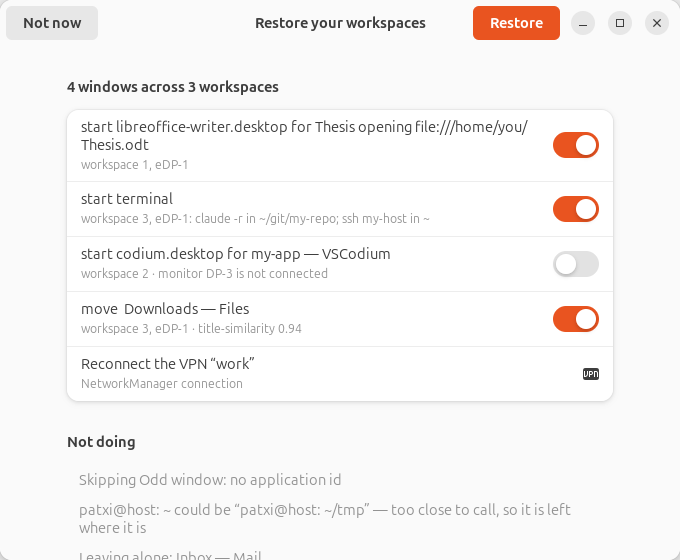
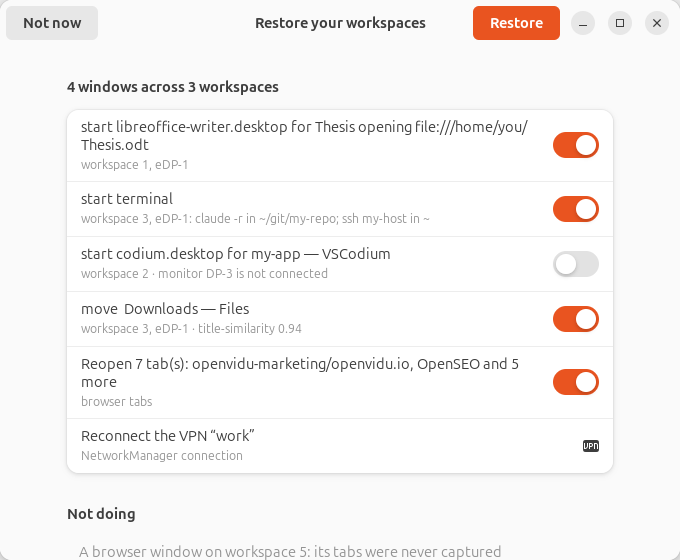
B5: the browser half installed, reviewable, documented
install.sh installs the bridge where snap Firefox can actually reach it —
manifest and host under ~/snap/firefox/common/.mozilla/ — and every other
Firefox path that exists, pinning the add-on id in allowed_extensions the way
GNOME's own browser connector does. Verified by running the installer into a
fake home: manifest written with the right absolute host path, host executable,
.xpi delivered. It gained RESTORE_WSS_LOCAL_PAYLOAD so that verification runs
the real script rather than a copy of part of it.

The release workflow packages src/browser-extension as browser-extension.xpi,
asserts it is in the tarball, and signs it with `web-ext sign` only when
AMO_JWT_ISSUER/AMO_JWT_SECRET are configured — the credentials are the user's
AMO account, not this project's, so the release states which kind of asset it
carries instead of pretending.

The review window shows the browser half as its own switch, and a browser
window with nothing to do (tabs never captured, or already restored by Firefox)
becomes a note rather than a switch that offers to do nothing. The plan entries
carry a `kind` so nothing has to read English to decide that.

Docs: state-schema.md gains the browser block and the schema-compatibility note
(v0.2 is not a bump — a v0.1 snapshot has no block, a v0.2 block is an unknown
field to v0.1, tested both ways); app-adapters.md gets Firefox as the worked
tier-2 example; limitations.md gets a browser section including the one
[…]

diff --git a/src/restore_wss/review.py b/src/restore_wss/review.py
@@ -42,6 +42,12 @@ class ReviewModel:
     def selected_indices(self) -> list[int]:
         return [row.index for row in self.rows if row.selected and row.kind == "window"]
 
+    @property
+    def restore_tabs(self) -> bool:
+        """Whether the browser half was left switched on. No browser rows means nothing to ask."""
+        browser_rows = [row for row in self.rows if row.kind == "browser"]
+        return any(row.selected for row in browser_rows) if browser_rows else True
+
 
 def build_model(plan: dict) -> ReviewModel:
     """Turn the daemon's plan into what the window shows."""
@@ -71,6 +77,24 @@ def build_model(plan: dict) -> ReviewModel:
                 title=title.strip() or description,
                 subtitle=subtitle.strip(),
                 selected=confidence >= PRE_TICK_CONFIDENCE,
+            )
+        )
+
+    for entry in plan.get("browser", []):
+        # Only "open" is a choice: a window whose tabs were never captured has nothing to
+        # reopen, and a switch for it would offer to do nothing. Those become notes instead.
+        if entry.get("kind") != "open":
+            model.notes.append(entry.get("description", ""))
+            continue
+        # Index -2 marks "the browser half": Restore passes it on as a whole, because the browser
+        # reconciles window by window itself.
+        model.rows.append(
+            Row(
+                index=-2,
+                title=entry.get("description", "browser tabs"),
+                subtitle="browser tabs",
+                selected=True,
+                kind="browser",
             )
         )
 
@@ -151,16 +175,20 @@ def run_review(client, model: ReviewModel | None = None, screenshot: str | None 
         page = Adw.PreferencesPage()
         group = Adw.PreferencesGroup(title=model.heading)
         switches: dict[int, Gtk.Switch] = {}
+        browser_switches: list[Gtk.Switch] = []
 
         for row in model.rows:
             action_row = Adw.ActionRow(title=row.title, subtitle=row.subtitle)
             action_row.set_title_lines(2)
             action_row.set_subtitle_lines(2)
-            if row.kind == "window":
+            if row.kind in ("window", "browser"):
                 switch = Gtk.Switch(active=row.selected, valign=Gtk.Align.CENTER)
                 action_row.add_suffix(switch)
                 action_row.set_activatable_widget(switch)
-                switches[row.index] = switch
+                if row.kind == "window":
+                    switches[row.index] = switch
+                else:
+                    browser_switches.append(switch)
             else:
                 action_row.add_suffix(Gtk.Image.new_from_icon_name("network-vpn-symbolic"))
             group.add(action_row)
@@ -186,7 +214,7 @@ def run_review(client, model: ReviewModel | None = None, screenshot: str | None 
 
         restore = Gtk.Button(label="Restore")
         restore.add_css_class("suggested-action")
-        restore.set_sensitive(bool(switches))
+        restore.set_sensitive(bool(switches) or bool(browser_switches))
 
         def on_restore(_button):
             chosen = [index for index, switch in switches.items() if switch.get_active()]

diff --git a/tests/unit/test_bridge.py b/tests/unit/test_bridge.py
@@ -156,3 +156,51 @@ def test_the_host_answers_a_handshake(tmp_path):
     host.handle({"type": "hello"}, tmp_path, out)
     reply = host.read_frame(io.BytesIO(out.getvalue()))
     assert reply["host"] == "restore-wss"
+
+
+def test_the_host_runs_as_a_process_and_writes_what_it_is_sent(tmp_path):
+    """The shipped host, launched the way Firefox launches it: framed JSON on stdin.
+
+    This is the only test that exercises its main loop — the select() poll that lets a restore
+    request reach an idle browser — rather than its functions.
+    """
+    import subprocess
+    import sys
+    import time
+
+    drop = tmp_path / "drop"
+    process = subprocess.Popen(
+        [sys.executable, str(HOST_PATH)],
+        stdin=subprocess.PIPE,
+        stdout=subprocess.PIPE,
+        env={"RESTORE_WSS_BROWSER_DROP": str(drop), "PATH": "/usr/bin:/bin"},
+    )
+    try:
+        process.stdin.write(host.frame(a_report(url="https://spawned.example/")))
+        process.stdin.flush()
+
+        report = None
+        deadline = time.monotonic() + 10
+        while time.monotonic() < deadline:
+            report = read_report(roots=[str(drop)])
+            if report is not None:
+                break
+            time.sleep(0.1)
+        assert report is not None, "the host did not write a report"
+        assert report.windows[0].tabs[0].url == "https://spawned.example/"
+
+        # And a request left for it is picked up while the browser says nothing at all.
+        write_request(
+            [{"urls": ["https://asked-for/"], "pinned": [False], "active": 0}], roots=[str(drop)]
+        )
+        deadline = time.monotonic() + 10
+        while time.monotonic() < deadline and request_pending(roots=[str(drop)]):
+            time.sleep(0.1)
+        assert not request_pending(roots=[str(drop)]), "the host never took the request"
+
+        forwarded = host.read_frame(process.stdout)
+        assert forwarded["type"] == "restore"
+        assert forwarded["windows"][0]["urls"] == ["https://asked-for/"]
+    finally:
+        process.stdin.close()
+        process.wait(timeout=10)

diff --git a/tests/unit/test_review.py b/tests/unit/test_review.py
@@ -68,3 +68,45 @@ def test_an_empty_plan_says_so_rather_than_showing_an_empty_list():
     model = build_model({"actions": [], "workspace_count": 0})
     assert "Nothing to restore" in model.heading
     assert model.rows == []
+
+
+BROWSER_PLAN = dict(
+    PLAN,
+    browser=[
+        {
+            "kind": "open",
+            "description": "Reopen 7 tab(s): https://gnome.org/, https://a/ and 5 more",
+        },
+        {"kind": "skipped", "description": "A browser window: its tabs were never captured"},
+        {"kind": "already", "description": "Thesis was already restored by Firefox"},
+    ],
+)
+
+
+def test_only_actionable_browser_rows_get_a_switch():
+    model = build_model(BROWSER_PLAN)
+    rows = [row for row in model.rows if row.kind == "browser"]
+    assert len(rows) == 1
+    assert "7 tab(s)" in rows[0].title
+    # Not a window action, so it never appears in the indices passed to Restore.
+    assert -2 not in model.selected_indices
+
+
+def test_browser_windows_with_nothing_to_do_are_notes_not_switches():
+    """Offering a switch for a window whose tabs were never captured offers to do nothing."""
+    notes = "\n".join(build_model(BROWSER_PLAN).notes)
+    assert "never captured" in notes
+    assert "already restored by Firefox" in notes
+
+
+def test_the_browser_half_can_be_switched_off_as_a_whole():
+    model = build_model(BROWSER_PLAN)
+    assert model.restore_tabs
+    for row in model.rows:
+        if row.kind == "browser":
+            row.selected = False
+    assert not model.restore_tabs
+
+
+def test_a_plan_with_no_browser_rows_leaves_tabs_alone():
+    assert build_model(PLAN).restore_tabs is True

diff --git a/tools/review-preview.py b/tools/review-preview.py
@@ -57,6 +57,16 @@ PLAN = {
     "skipped": [{"title": "Odd window", "wm_class": "Odd", "reason": "no application id"}],
     "ambiguous": [{"title": "patxi@host: ~", "candidate": "patxi@host: ~/tmp", "score": 0.93}],
     "untouched": [{"title": "Inbox — Mail", "wm_class": "firefox"}],
+    "browser": [
+        {
+            "kind": "open",
+            "description": "Reopen 7 tab(s): openvidu-marketing/openvidu.io, OpenSEO and 5 more",
+        },
+        {
+            "kind": "skipped",
+            "description": "A browser window on workspace 5: its tabs were never captured",
+        },
+    ],
     "vpn": [{"name": "work", "kind": "activate", "description": "Reconnect the VPN “work”"}],
 }
 

diff --git a/docs/limitations.md b/docs/limitations.md
@@ -91,6 +91,47 @@ The terminal support is the most valuable part of this and also the most hedged.
   open the tabs cannot yet be attributed to the right window. Both windows are restored; their tabs
   may be grouped wrongly.
 
+## Browsers and tabs (v0.2)
+
+Firefox only, per the answered open question. What works, and what does not:
+
+* **What is captured** — every non-private window's tabs: URL, title, pinned and active state, and
+  the tab group's id where there is one. From two sources: the add-on (live) or Firefox's own session
+  file (`recovery.jsonlz4`, minutes stale). The snapshot records which, and `restore-wss status`
+  shows it.
+* **What the `tabs` permission means, in one paragraph.** The add-on can see the address and title of
+  every page open in every non-private window, and restore-wss writes them to
+  `~/.restore-wss/state/session.json`. That file is yours alone (mode `0700`), nothing is sent
+  anywhere, and private windows are dropped in three independent places — but if you would not write
+  your open tabs down on a piece of paper on your desk, set `browsers.enabled = false`, or list the
+  sites you care about in `browsers.exclude_urls`, or set `browsers.store = "titles"`. The feature is
+  off in exactly the way you configure it, and everything else keeps working.
+* **The session-file route is as fresh as Firefox chose to be** — confirmed. The documented flush
+  interval is 15 s, and the live file was 48 minutes old when probed (an idle browser with nothing to
+  flush). It is what Firefox last wrote down, not what is on screen this second.
+* **Which browser window a tab set belongs to is a heuristic** — confirmed, and it is the weakest
+  link. Firefox titles a window after its active tab, so the title is the signal; geometry is
+  useless on this machine because every window is maximized at the same size. Two windows that look
+  alike and hold *different* tabs are recorded as "a browser window, tabs unknown" rather than being
+  given a coin-toss tab set. Two showing the same tabs are matched, because there the choice does
+  not matter.
+* **Tabs come back in a new window, not the old one.** Restore asks the browser to create a window
+  with those URLs; the compositor window is then placed as any other. What is lost: the window's own
+  session history and anything the pages held in memory.
+* **Per-tab back/forward history, scroll position and form state are not restored** — by design.
+  Reading them needs a content script in every page.
+* **Tab groups are recorded but not recreated** — the group id travels in the snapshot; rebuilding
+  groups needs the `tabGroups` permission and a newer API than the minimum this add-on targets.
+* **The add-on must be signed to install in release Firefox** — and signing needs *your* AMO
+  credentials. The release ships the packaged `.xpi`; CI signs it only when `AMO_JWT_ISSUER` and
+  `AMO_JWT_SECRET` are configured in the repository. Without them the add-on installs in Developer
+  Edition/Nightly or as a temporary add-on, and the session-file route works regardless.
+* **A second Firefox profile is not distinguished at restore time.** The profile name is recorded,
+  but restore hands URLs to whichever profile the running Firefox is using.
+* **Chromium-family browsers are not supported** — by decision. The reader, the correlation and the
+  reconciliation are all family-agnostic, but SNSS parsing and a second host manifest are not
+  written.
+
 ## VPN
 
 * **NetworkManager only** — by design, per the answered open question. `wg-quick`, Tailscale and

diff --git a/docs/app-adapters.md b/docs/app-adapters.md
@@ -10,7 +10,7 @@ confidence.
 | --- | --- | --- |
 | **0** | The application only. No adapter, no rule, no guess. | Launches the app with no arguments. |
 | **1** | The document is recovered by introspection — from the process, from a recent-file store, or from a declared title pattern. | Launches the app with the document's URI. |
-| **2** | The application reports its own state. | Not built here. The schema and the D-Bus API leave room for it: a window may carry a `documents` block written by something else. |
+| **2** | The application reports its own state, through something installed alongside it. | **Real since v0.2**: Firefox, through the add-on and its native-messaging host. See the worked example below. |
 
 **Tier 0 is a real answer, not a failure.** An application with no entry in the table is restored
 blank rather than with a guessed document, because opening the wrong file is worse than opening
@@ -77,6 +77,34 @@ on screen.
 The title pattern is the last resort and only ever yields a *name*: "Thesis" cannot be reopened, so
 restore says "the document is only known by name (Thesis)" in the review text and lowers the
 action's confidence instead of pretending.
+
+### A browser — Firefox (tier 2, and the worked example for it)
+
+The only tier-2 application today, and worth reading as the template for what tier 2 costs.
+
+**What reports the state.** A WebExtension with the `tabs` permission
+(`src/browser-extension/`) sends every non-private window's tabs to a native-messaging host
+(`src/native-host/restore-wss-firefox-host.py`), which drops them in a file the daemon reads. Not
+D-Bus: a host executed by snap Firefox inherits the browser's AppArmor confinement, whose session-bus
+rules are a per-name allow-list (`docs/browser-extensions-research.md` §1).
+
+**What happens without it.** Tier 2 degrades to a *file* rather than to nothing: Firefox's own
+`recovery.jsonlz4` is read directly, giving windows, tabs, pinned and selected state and geometry
+with no add-on and no permission — minutes stale instead of live, and labelled as such in the
+snapshot (`source: "session-file"`).
+
+**What is different about tier 2.** Two things this project had not had to deal with before:
+
+1. **Correlation.** A document belongs to the window whose process it was read from; a *tab set*
+   belongs to a browser window that has no connection to the compositor window except its title.
+   That is a heuristic with a confidence, and it refuses rather than guesses
+   (`src/restore_wss/browsercorrelate.py`).
+2. **The application restores itself.** Firefox's own session restore stays on, so restore is
+   reconciliation: fill in what it did not bring back, never duplicate what it did
+   (`src/restore_wss/browserrestore.py`).
+
+**What it does not recover:** per-tab back/forward history, scroll position and form state. Reading
+those needs a content script in every page — a far larger permission for a much smaller return.
 
 ### A terminal — `gnome-terminal` (its own mechanism entirely)
 

diff --git a/README.md b/README.md
@@ -38,6 +38,43 @@ instead, with the doubtful items switched off:
 
 ![The review window](screenshots/review.png)
 
+## Browser tabs
+
+Tabs work **with no browser add-on at all**: restore-wss reads Firefox's own session file, which
+carries every window's tabs, their titles, pinned state and the selected tab. That is what Firefox
+last wrote down — usually seconds old, occasionally minutes — and it needs no permission from you.
+
+```console
+$ restore-wss status
+Workspace 4
+  [eDP-1 1165x1408] M Dedicación Mica y Patxi - Google Sheets — Mozilla Firefox
+      8 tab(s): Content planning - Google Sheets; Interviews - Google Docs; …6 more
+```
+
+Install the add-on as well and the state becomes live rather than last-flushed:
+
+```console
+$ firefox ~/.local/share/restore-wss/restore-wss-firefox.xpi
+```
+
+Restoring is **reconciliation**, because Firefox's own "restore previous session" stays on: a window
+Firefox brought back itself is left alone, one it did not is created with its tabs in order, and tabs
+are never appended to a window you have since been using. Running `restore` twice changes nothing the
+second time.
+
+### The Firefox add-on
+
+The add-on is in the release tarball as `browser-extension.xpi`. Release Firefox installs only
+**signed** add-ons, and signing an add-on means signing it with *an* AMO account — so it is signed
+here only when this repository has `AMO_JWT_ISSUER` and `AMO_JWT_SECRET` configured; the workflow
+runs `web-ext sign --channel unlisted` and attaches `restore-wss-firefox-signed.xpi`. Without those
+secrets the asset is unsigned, which is installable in Developer Edition, Nightly, or as a temporary
+add-on — and the session-file route above needs none of it.
+
+What the add-on can see, plainly: the address and title of every page in every non-private window.
+Private windows are never reported. `browsers.enabled = false`, `browsers.exclude_urls` and
+`browsers.store = "titles"` are all in [docs/limitations.md](docs/limitations.md#browsers-and-tabs-v02).
+
 ## How it works, in one paragraph
 
 The snapshot is written **continuously**, not at logout — a design forced by the fact that the
@@ -98,6 +135,7 @@ $ tools/smoke-nested.sh   # the whole thing against a real headless GNOME Shell
 | [docs/app-adapters.md](docs/app-adapters.md) | The document tier model and how to add an application |
 | [docs/limitations.md](docs/limitations.md) | What cannot be restored, and why |
 | [docs/shared-core.md](docs/shared-core.md) | `org.gnome.SessionCore`, the reusable compositor-side half |
+| [docs/browser-extensions-research.md](docs/browser-extensions-research.md) | Browser prior art, the snap-confinement findings, and the go/no-go behind the design above |
 
 ## Licence
 

diff --git a/docs/state-schema.md b/docs/state-schema.md
@@ -94,6 +94,24 @@ current one, the session was not lost to a reboot and there is nothing to offer.
     ]
   },
 
+  // Present only for declared browsers (v0.2). `source` says which of the two readers produced
+  // it, because "the browser told us" and "we read its session file, which may be minutes stale"
+  // are different claims; `confidence` is how sure the correlation between this compositor window
+  // and that browser window is (docs/browser-extensions-research.md §6).
+  "browser": {
+    "family": "firefox",
+    "version": "142.0",
+    "profile": "cqdb58zj.default",       // the directory name, never the path
+    "window_id": "7",                    // the browser's own id; per-run only
+    "source": "extension",               // or "session-file"
+    "confidence": 0.86,                  // omitted when it is 1.0
+    "reason": "title 0.86; reported by the browser extension",
+    "tabs": [
+      {"url": "https://gnome.org/", "title": "GNOME", "active": true},
+      {"url": "https://mail.example.com/", "title": "Inbox", "pinned": true}
+    ]
+  },
+
   // Reserved. On GNOME 47+ an application that restores itself through
   // xdg-session-management-v1 is recorded here and left alone. Always empty on GNOME 46, which
   // does not have the protocol (docs/platform-findings.md §1).
@@ -118,6 +136,7 @@ defaults.
 | `schema` | Version | Change |
 | --- | --- | --- |
 | 1 | 0.1 | first format |
+| 1 | 0.2 | added the per-window `browser` block. **Not a bump**: a v0.1 snapshot has no block and restores exactly as it did, and a v0.2 snapshot read by v0.1 keeps the block as an unknown field. There is a test for each direction |
 
 A snapshot with a *higher* schema than this build understands is still read — the fields it knows
 are used and the rest are carried through — because refusing to read it would be worse than
@@ -134,6 +153,12 @@ paused = false              # stop capturing without stopping the daemon
 exclude_apps = []           # wm_class or desktop id, never recorded
 exclude_paths = []          # path prefixes; documents and working directories under them are dropped
 # terminals = ["gnome-terminal-server", "Alacritty"]   # which apps get their process tree read
+
+[browsers]
+enabled = true              # capture tabs at all; off leaves the rest of restore-wss working
+store = "urls"              # "urls" (url + title) | "titles" | "none" (window shape only)
+exclude_urls = []           # substrings or globs; matching tabs are never recorded
+# browsers = ["firefox"]    # which applications are browsers
 
 [commands]
 policy = "whitelist"        # never | whitelist | always
